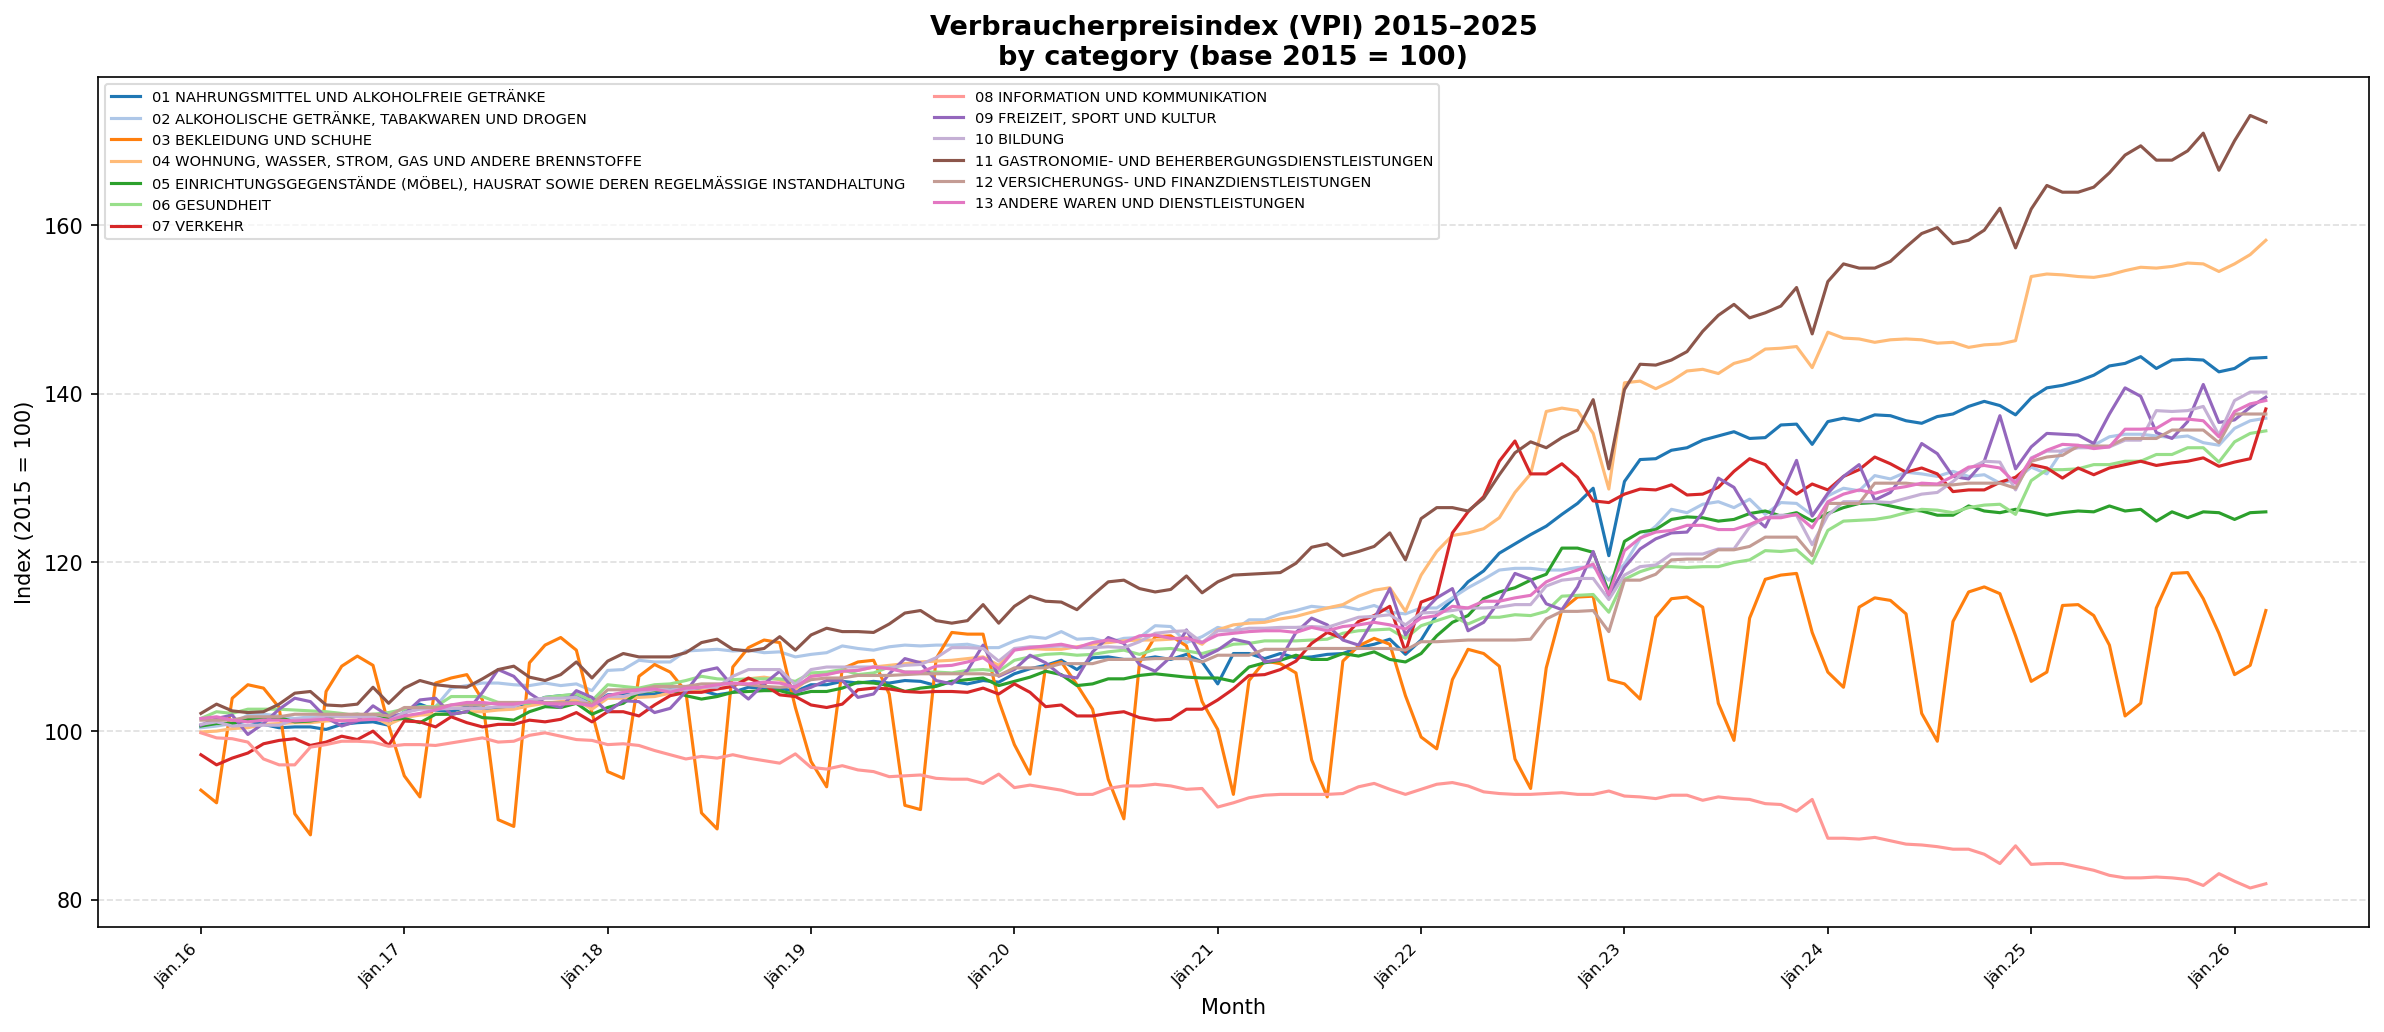
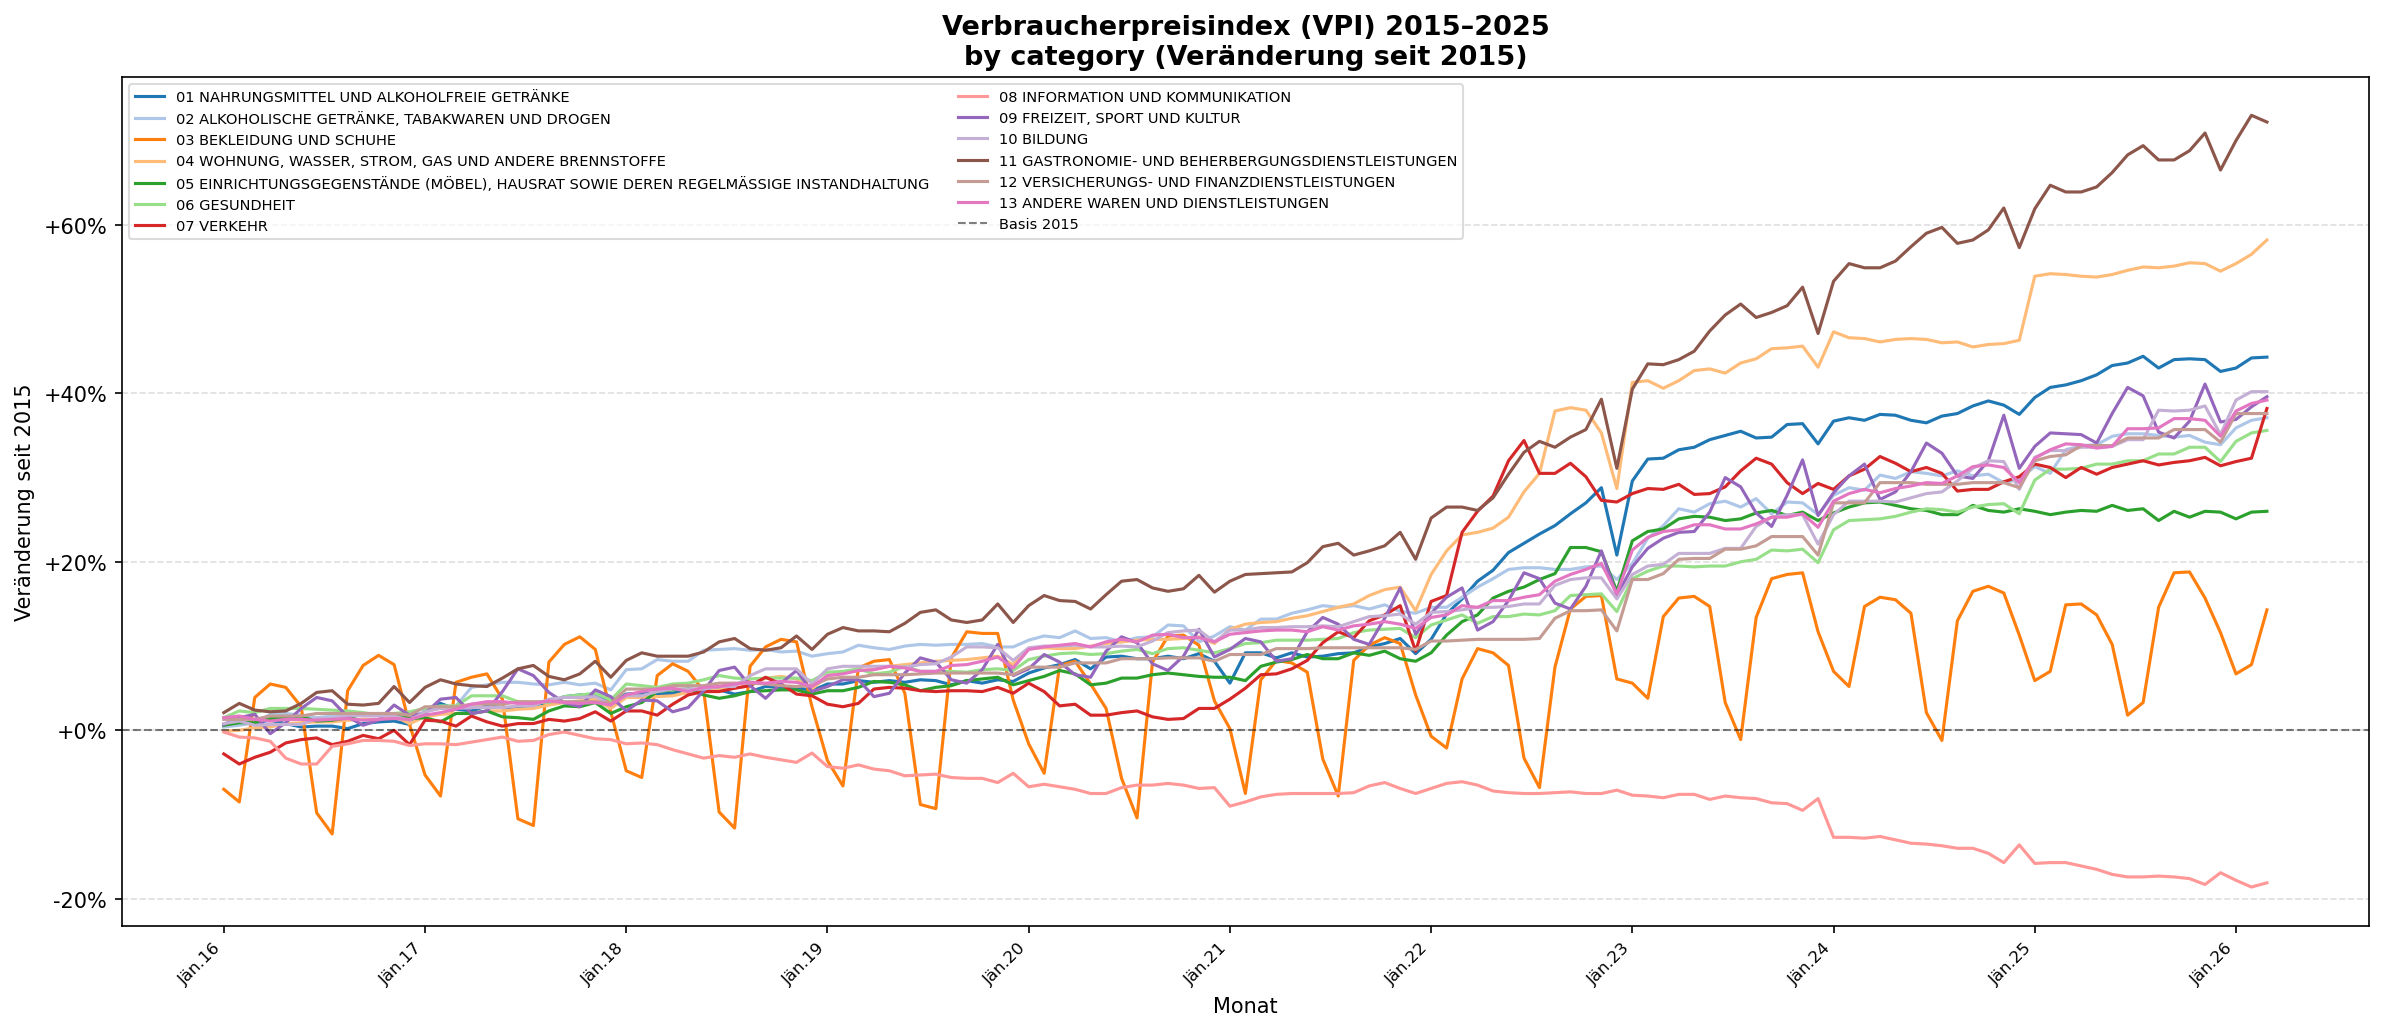
version 2.0

diff --git a/graph_redesign.py b/graph_redesign.py
@@ -3,7 +3,6 @@ import matplotlib.pyplot as plt
 import matplotlib.ticker as ticker
 
 ######### ! Data Preprocessing ##########
-
 # import data
 raw = pd.read_excel('/Users/joyalissa/Documents/TU/6. Semester/Vis/assignments/Visualisierung/VPI_2015-2025.xlsx', header=None)
 
@@ -12,9 +11,10 @@ categories = raw.iloc[7, 2:].tolist()
 
 # Dates are in column 1, data starts at row 10 (index 9 XD damn bug)
 df = raw.iloc[9:, 1:].copy()
-df.columns = ['Zeitraum'] + categories # set column names
-df = df.dropna(subset=['Zeitraum']) # drop any blank rows
-df[categories] = df[categories].apply(pd.to_numeric, errors='coerce') # convert to numeric, coerce errors to NaN (just in case)
+df.columns = ['Zeitraum'] + categories  # set column names
+df = df.dropna(subset=['Zeitraum'])  # drop any blank rows
+df[categories] = df[categories].apply(pd.to_numeric, errors='coerce')  # convert to numeric, coerce errors to NaN (just in case)
+df[categories] = df[categories] - 100  # 0% = Basisjahr 2015
 df = df.reset_index(drop=True)
 
 ######### ! PLOT ##########
@@ -26,15 +26,19 @@ for i, col in enumerate(categories):
     # set labels
     ax.plot(df.index, df[col], label=col, color=colors[i % len(colors)], linewidth=1.5)
 
-
-jan_mask = df['Zeitraum'].str.startswith('Jän') # only show january labels :)
+jan_mask = df['Zeitraum'].str.startswith('Jän')  # only show january labels :)
 ax.set_xticks(df.index[jan_mask])
-ax.set_xticklabels(df['Zeitraum'][jan_mask], rotation=45, ha='right', fontsize=8) # hat to rotate for readability
+ax.set_xticklabels(df['Zeitraum'][jan_mask], rotation=45, ha='right', fontsize=8)  # had to rotate for readability
 
-ax.set_title('Verbraucherpreisindex (VPI) 2015–2025\nby category (base 2015 = 100)',
+ax.set_title('Verbraucherpreisindex (VPI) 2015–2025\nby category (Veränderung seit 2015)',
              fontsize=13, fontweight='bold')
-ax.set_ylabel('Index (2015 = 100)')
-ax.set_xlabel('Month')
+ax.set_ylabel('Veränderung seit 2015')
+
+# tbh the next line is copied from stackoverflow
+ax.yaxis.set_major_formatter(ticker.FuncFormatter(lambda x, _: f'{x:+.0f}%'))  # +20%, -5% usw.
+
+ax.axhline(y=0, color='black', linestyle='--', linewidth=1, alpha=0.5, label='Basis 2015')  # Basiswert als gestrichelte Linie
+ax.set_xlabel('Monat')
 ax.legend(loc='upper left', fontsize=7, ncol=2, framealpha=0.7)
 ax.grid(axis='y', linestyle='--', alpha=0.4)
 